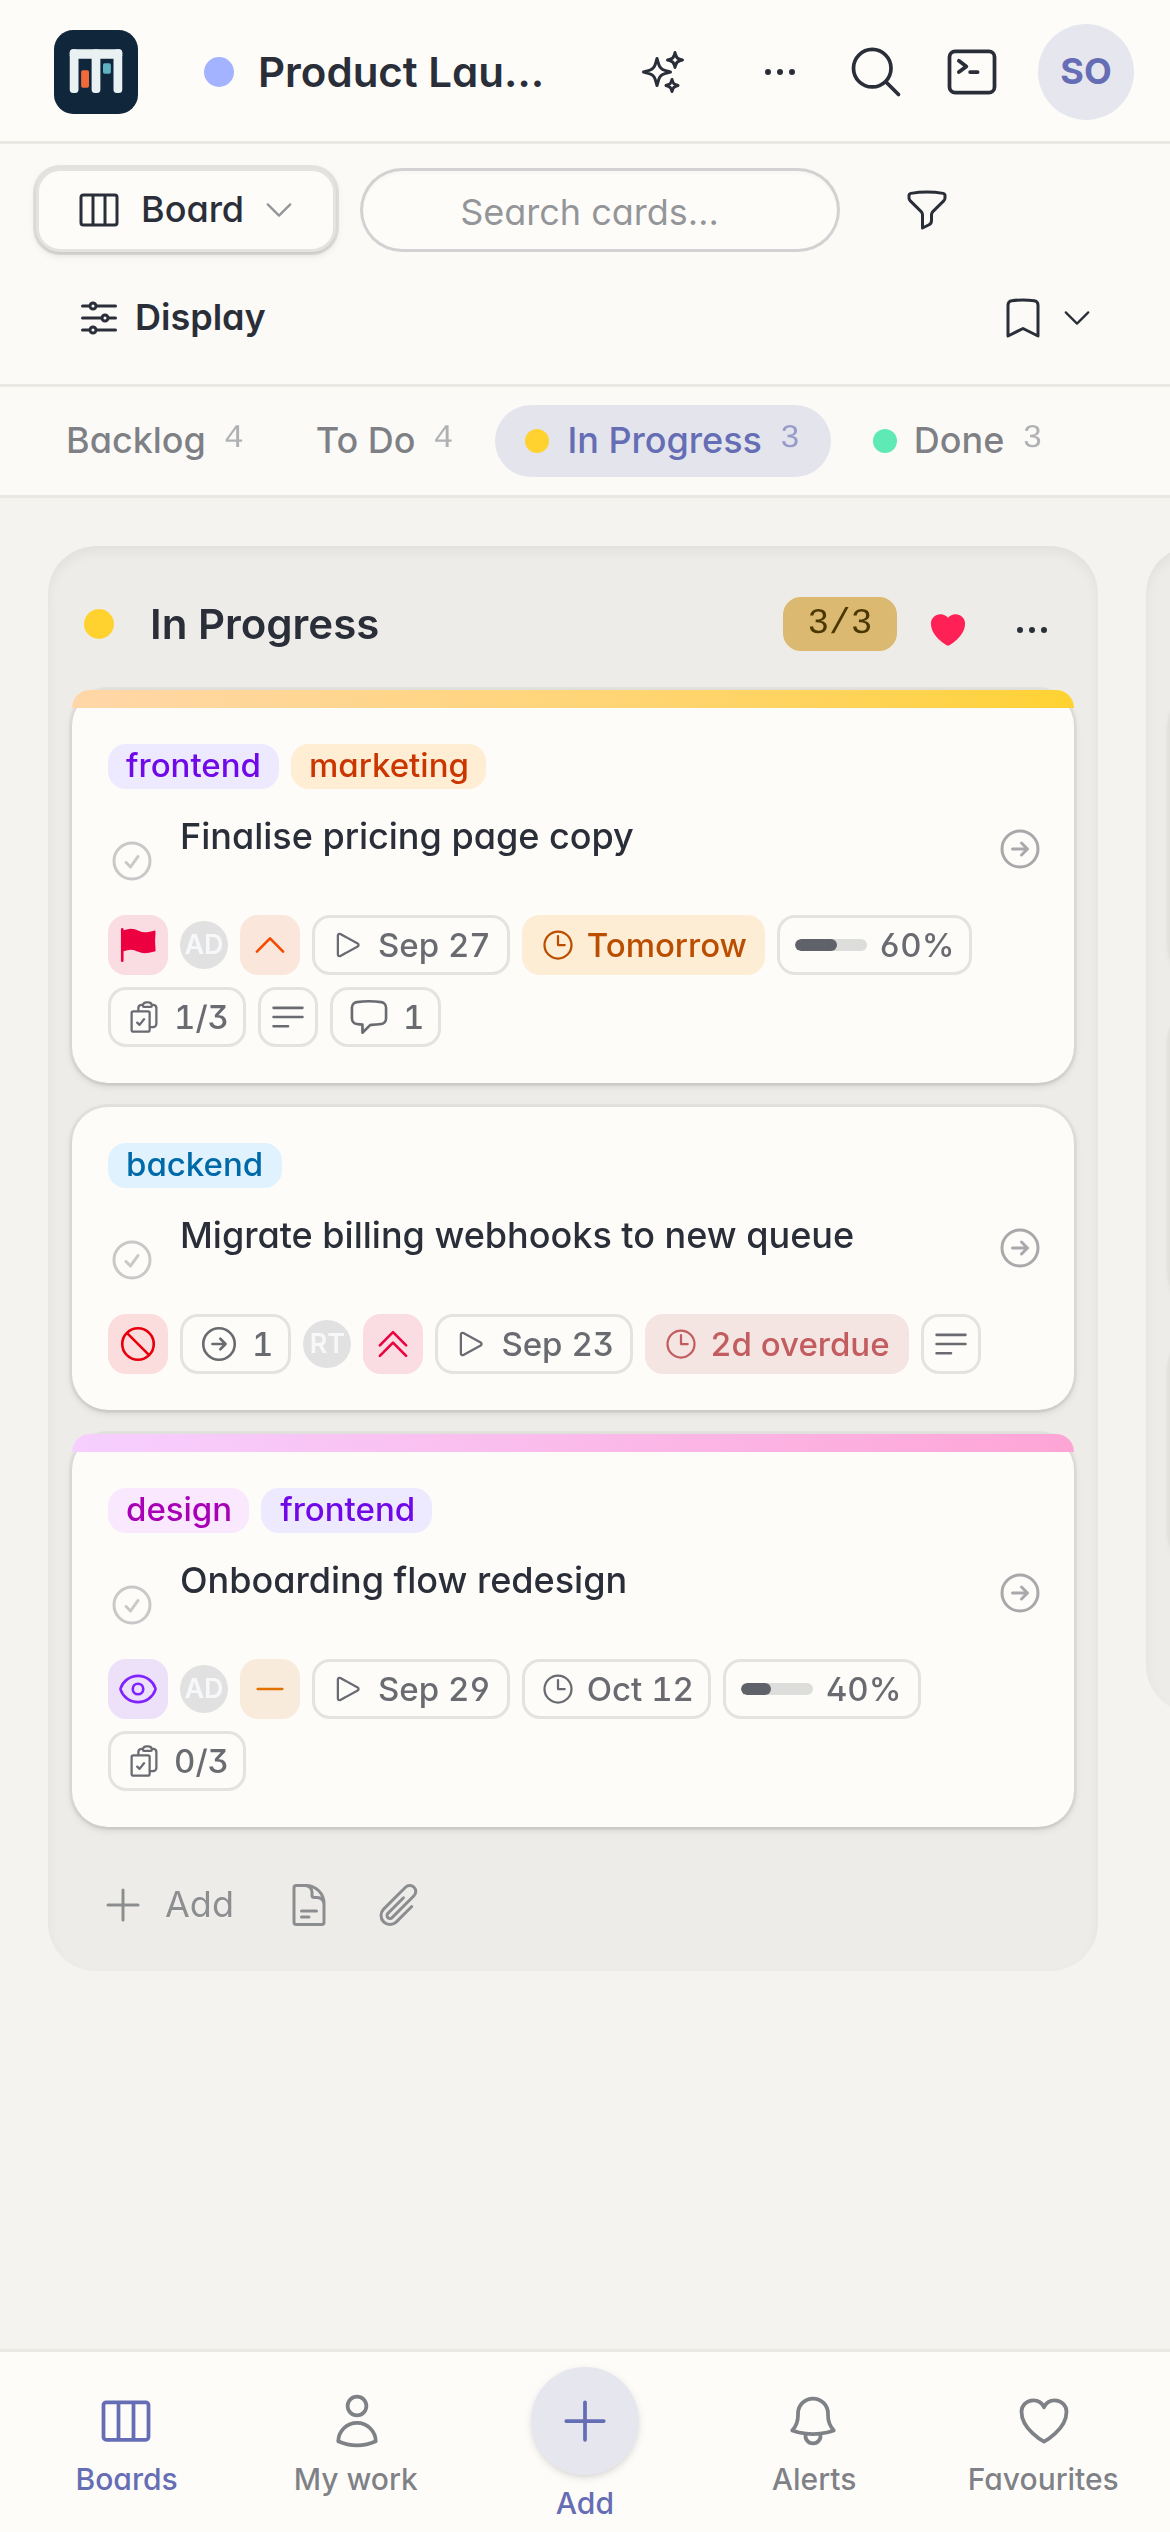
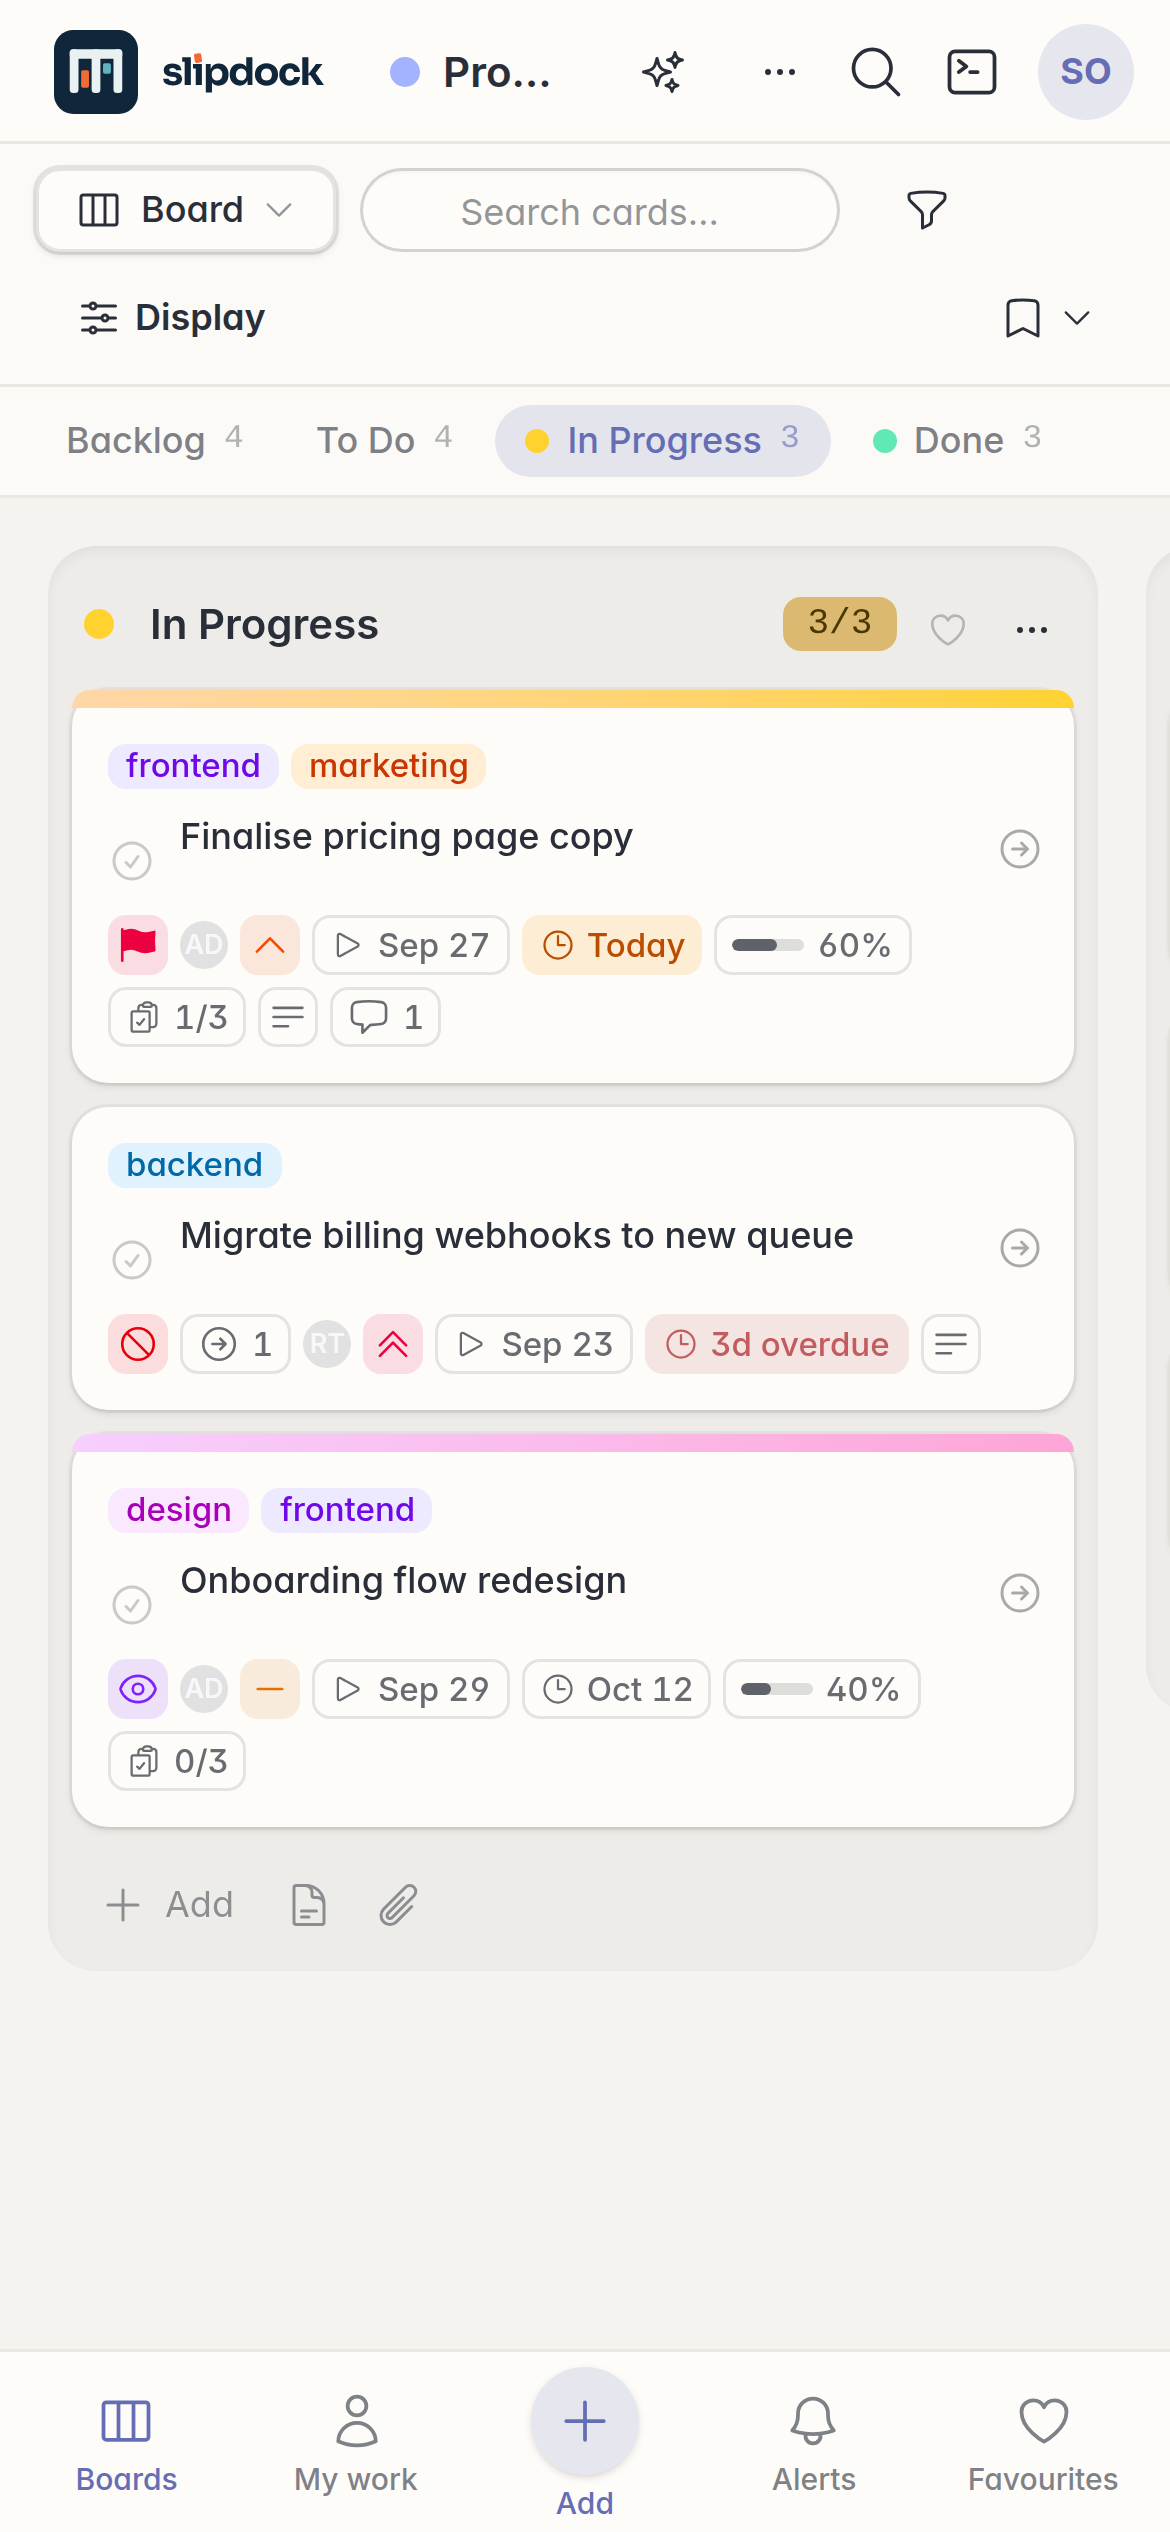
Render the wordmark as artwork, not text (#160)
The header set "Slipdock" in the UI font, which gives the "i" an
ordinary dot — the one thing BRAND.md says never to do, because the dot
is the orange card tilted 8 degrees. It is `wordmark.svg` now.

Both the wordmark and the icon ship a light and a reversed variant, and
the app has a dark theme, so each is a pair swapped on the `dark:`
variant rather than one file recoloured: the letters change (Harbor ink
to Page) and the orange card stays orange in both.

That turned up a second breach of the same guide. BRAND.md says not to
put the navy tile on a dark background; against this theme's dark header
the Harbor ink tile measures **1.3:1**, so the icon was a shape nobody
could see. The kit ships no standalone reversed icon, only the reversed
lockup, so `icon-reversed.svg` and `icon-simple-reversed.svg` are
derived from their dark-tile counterparts by applying the light/dark
colour pairs the guide itself tabulates — ink↔mist, Slip teal light →
Slip teal. That is the same swap the kit performs inside
`lockup-reversed.svg`, and the derived palette comes out identical to
it, which is the check that it was the right swap rather than a guess.
BRAND.md records that they are derived and should be replaced if drawn
versions arrive.

Checked by rendering the header in both themes rather than by reading
the markup.

Claude-Session: https://claude.ai/code/session_01P8AC7Bj4Wr23uFdduLF7oo

diff --git a/brand/BRAND.md b/brand/BRAND.md
@@ -22,11 +22,25 @@ Kanban columns drawn as dock slips. Finger piers form the columns, cards are moo
 | `icon.svg` | Detailed app icon. Use at 48 px and above. |
 | `icon-simple.svg` | Simplified icon. Use from 20 px to 47 px. |
 | `icon-16.svg` | Simplest icon for 16 px (no teal card). |
+| `icon-reversed.svg` | Detailed icon on dark surfaces (light tile). Derived, see below. |
+| `icon-simple-reversed.svg` | Simplified icon on dark surfaces. Derived, see below. |
 | `mark.svg` | The mark with no tile, light-background colours. |
 | `favicon.ico` | 16 + 32 px favicon. |
 | `favicon-16.png`, `favicon-32.png` | PNG favicons. |
 | `icon-180.png` | Apple touch icon. |
 | `icon-192.png`, `icon-512.png` | PWA manifest icons. |
+
+## Derived files
+
+The kit shipped no standalone reversed *icon*, only `lockup-reversed.svg`.
+`icon-reversed.svg` and `icon-simple-reversed.svg` were derived from their
+dark-tile counterparts by applying the light/dark colour pairs in the table
+below — ink↔mist, and Slip teal light → Slip teal — which is the same swap the
+kit already performs inside `lockup-reversed.svg`, and they come out with an
+identical palette. Replace them if a drawn version arrives.
+
+They exist because the app has a dark theme: against its header the Harbor ink
+tile measures 1.3:1, so the icon is a shape nobody can see.
 
 ## Where these live in this repository
 
